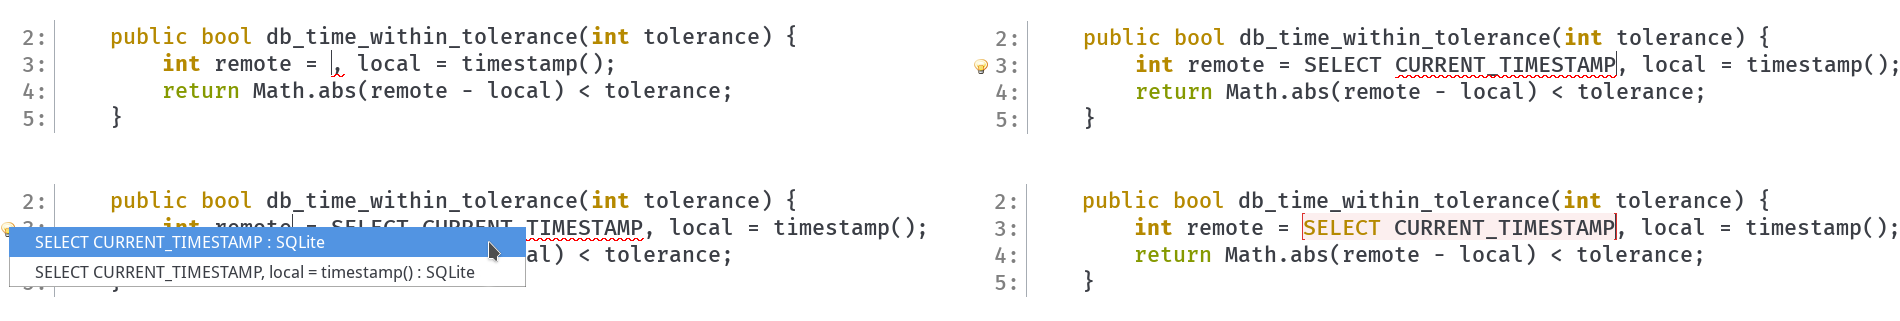
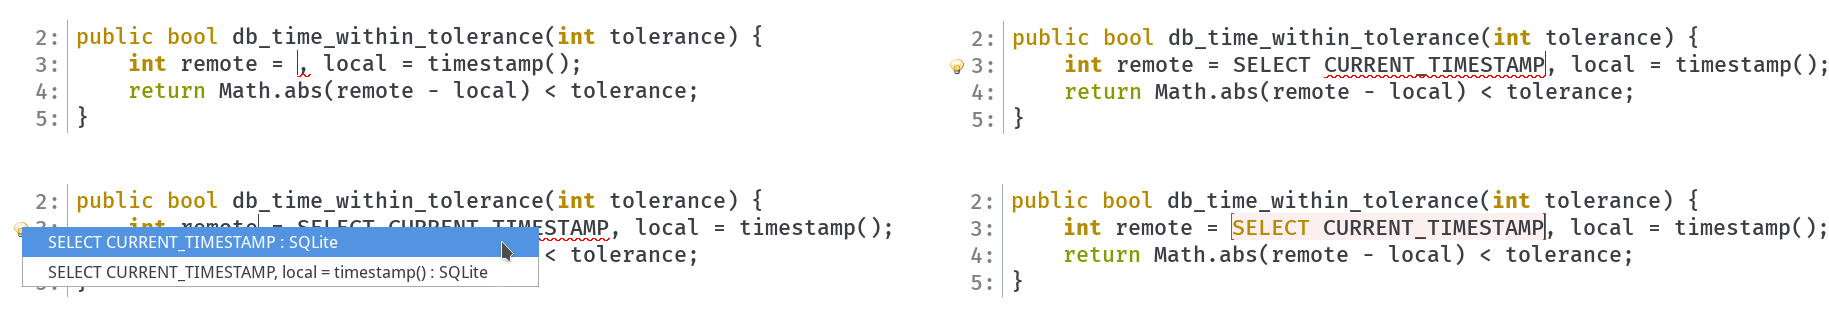
Tweak figures a bit

diff --git a/auto_lbox.tex b/auto_lbox.tex
@@ -183,11 +183,11 @@ user when it cannot.
     \vspace{1em}
     \includegraphics[width=1.00\textwidth]{images/mainexample_java_sql}
     \begin{picture}(0,0)
-        \put(-249,103){\textcolor{black}{\textbf{(a)}}}
-        \put(-103,103){\textcolor{black}{\textbf{(b)}}}
-        \put(  40,103){\textcolor{black}{\textbf{(c)}}}
-        \put(-249,51){\textcolor{black}{\textbf{(d)}}}
-        \put(  40,51){\textcolor{black}{\textbf{(e)}}}
+        \put(-249,103){\textcolor{black}{\footnotesize\textbf{(a)}}}
+        \put(-103,103){\textcolor{black}{\footnotesize\textbf{(b)}}}
+        \put(  40,103){\textcolor{black}{\footnotesize\textbf{(c)}}}
+        \put(-249,51){\textcolor{black}{\footnotesize\textbf{(d)}}}
+        \put(  40,51){\textcolor{black}{\footnotesize\textbf{(e)}}}
     \end{picture}
     \vspace{-2.2em}
     \caption{An example of automatic language boxes in action (with elided screenshots from our
@@ -788,8 +788,8 @@ for an example).
 \includegraphics[width=0.90\textwidth]{images/autoboxerrorafterinsert_javasql.png}
 \end{center}
 \begin{picture}(0,0)
-    \put(-242,35.5){\textcolor{black}{\textbf{(a)}}}
-    \put(-5,35.5){\textcolor{black}{\textbf{(b)}}}
+    \put(-241,35.6){\textcolor{black}{\footnotesize\textbf{(a)}}}
+    \put(-5,35.6){\textcolor{black}{\footnotesize\textbf{(b)}}}
 \end{picture}
 \vspace{-1.2em}
 \caption{An example showing why parsing too far beyond a candidate language box increases
@@ -846,12 +846,12 @@ repeatedly inserted.
 \includegraphics[width=1\textwidth]{images/autobox_multioption_java_sql.png}
 \end{center}
 \begin{picture}(0,0)
-    \put(-255,95){\textcolor{black}{\textbf{(a)}}}
-    \put(0,95){\textcolor{black}{\textbf{(b)}}}
-    \put(-255,53){\textcolor{black}{\textbf{(c)}}}
-    \put(0,53){\textcolor{black}{\textbf{(d)}}}
+    \put(-254,96){\textcolor{black}{\footnotesize\textbf{(a)}}}
+    \put(3,96){\textcolor{black}{\footnotesize\textbf{(b)}}}
+    \put(-254,53){\textcolor{black}{\footnotesize\textbf{(c)}}}
+    \put(3,53){\textcolor{black}{\footnotesize\textbf{(d)}}}
 \end{picture}
-\vspace{-1.5em}
+\vspace{-1.7em}
 \caption{An example of multiple language box candidates in our running Java and SQL
   composition. \textbf{(a)} The user is editing an existing Java programme,
   and has just deleted the expression after \qtt{remote}.
